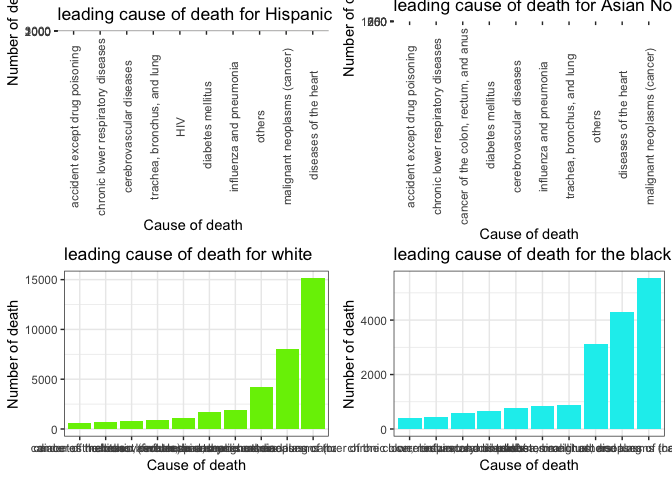
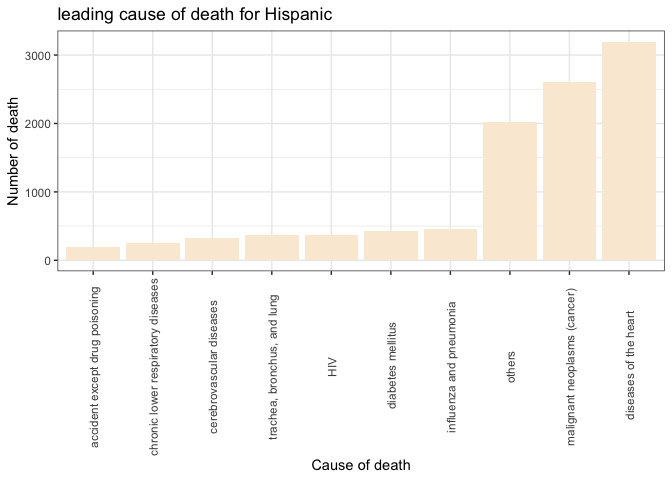
minor change

diff --git a/death_data_yx2510.md b/death_data_yx2510.md
@@ -212,6 +212,7 @@ total_death_data = replace_cd(total_death_data)
 gender_death_data2 = replace_cd(gender_death_data2)
 race_death_data2 = replace_cd(race_death_data2)
 age_death_data2 = replace_cd(age_death_data2)
+age_death_data3 = replace_cd(age_death_data3)
 ```
 
 3. data viasualization
@@ -440,9 +441,10 @@ lead_death3 = merge(lead_cause, total_death_data, by = c("year", "cause_of_death
   summarise(br_death_number = sum(number, na.rm = TRUE), br_population = sum(population)) %>%
   mutate(br_rate = br_death_number/br_population)
   
-  
+yr00 =   
 lead_death3 %>% 
-filter(year == 2000) %>%
+
+  filter(year == 2000) %>%
   ggplot(aes(reorder(x = cause_of_death, br_rate), y = br_rate, fill = borough)) +
   geom_bar(stat = "identity") + 
   theme_bw() +
@@ -452,11 +454,8 @@ filter(year == 2000) %>%
          title = "leading cause of death in 2000") +
   coord_flip()  +
   viridis::scale_fill_viridis(discrete = TRUE) 
-```
 
-![](death_data_yx2510_files/figure-markdown_github/unnamed-chunk-9-1.png)
-
-``` r
+yr06 = 
 lead_death3 %>% 
 filter(year == 2006) %>%
   ggplot(aes(reorder(x = cause_of_death, br_rate), y = br_rate, fill = borough)) +
@@ -468,11 +467,8 @@ filter(year == 2006) %>%
          title = "leading cause of death in 2006") +
   coord_flip()  +
   viridis::scale_fill_viridis(discrete = TRUE) 
-```
 
-![](death_data_yx2510_files/figure-markdown_github/unnamed-chunk-9-2.png)
-
-``` r
+yr12 = 
 lead_death3 %>% 
 filter(year == 2012) %>%
   ggplot(aes(reorder(x = cause_of_death, br_rate), y = br_rate, fill = borough)) +
@@ -484,12 +480,9 @@ filter(year == 2012) %>%
          title = "leading cause of death in 2012") +
   coord_flip()  +
   viridis::scale_fill_viridis(discrete = TRUE) 
-```
 
-![](death_data_yx2510_files/figure-markdown_github/unnamed-chunk-9-3.png)
-
-``` r
-lead_death3 %>% 
+yr14=
+  lead_death3 %>% 
 filter(year == 2014) %>%
   ggplot(aes(reorder(x = cause_of_death, br_rate), y = br_rate, fill = borough)) +
   geom_bar(stat = "identity") + 
@@ -500,6 +493,26 @@ filter(year == 2014) %>%
          title = "leading cause of death in 2014") +
   coord_flip()  +
   viridis::scale_fill_viridis(discrete = TRUE) 
+
+yr00
+```
+
+![](death_data_yx2510_files/figure-markdown_github/unnamed-chunk-9-1.png)
+
+``` r
+yr06
+```
+
+![](death_data_yx2510_files/figure-markdown_github/unnamed-chunk-9-2.png)
+
+``` r
+yr12
+```
+
+![](death_data_yx2510_files/figure-markdown_github/unnamed-chunk-9-3.png)
+
+``` r
+yr14
 ```
 
 ![](death_data_yx2510_files/figure-markdown_github/unnamed-chunk-9-4.png)
@@ -622,6 +635,8 @@ race_death_data2 = race_death_data2 %>%
   )) 
 
 # identify the top leading cause in NYC
+
+
 race_death_cause  = race_death_data2%>%
   group_by(race, cause_of_death) %>%
   summarise(cs_death_race = sum(borough_race_death)/11)  %>% # average yearly death from 2004 to
@@ -629,7 +644,7 @@ race_death_cause  = race_death_data2%>%
   arrange(race, desc(cs_death_race)) 
 
 ## plot for hispanic
-hispanic = race_death_cause %>% 
+race_death_cause %>% 
   filter(race == "Hispanic") %>%
   ggplot(aes(x = reorder(cause_of_death, cs_death_race), y = cs_death_race)) +
   geom_bar(stat = "identity", fill = "antiquewhite") +
@@ -639,7 +654,11 @@ hispanic = race_death_cause %>%
          title = "leading cause of death for Hispanic") + 
 theme_bw() +
    theme(axis.text.x = element_text(angle=90, vjust=0.6))
+```
 
+![](death_data_yx2510_files/figure-markdown_github/unnamed-chunk-13-1.png)
+
+``` r
 # asian
 asian = race_death_cause %>% 
   filter(race == "Asian Non-Hispanic") %>%
@@ -650,7 +669,8 @@ theme_bw() +
    theme(axis.text.x = element_text(angle=90, vjust=0.6)) +
    labs(x = "Cause of death", 
          y = "Number of death", 
-         title = "leading cause of death for Asian Non-hispanic")
+         title = "leading cause of death for Asian Non-hispanic") +
+   theme(axis.text.x = element_text(angle=90, vjust=0.6))
   
   # white
 white = 
@@ -662,7 +682,8 @@ white =
    labs(x = "Cause of death", 
          y = "Number of death", 
          title = "leading cause of death for white")  +
-theme_bw() 
+theme_bw() +
+   theme(axis.text.x = element_text(angle=90, vjust=0.6))
 
 # black
 black = 
@@ -674,11 +695,11 @@ black =
    labs(x = "Cause of death", 
          y = "Number of death", 
          title = "leading cause of death for the black") +
-theme_bw()
-ggarrange(hispanic, asian, white, black, ncol=2, nrow=2, common.legend = TRUE, legend="bottom")
+theme_bw() +
+   theme(axis.text.x = element_text(angle=90, vjust=0.6))
 ```
 
-![](death_data_yx2510_files/figure-markdown_github/unnamed-chunk-13-1.png) \#\#\#\#\# by race and borough
+##### by race and borough
 
 ``` r
 race_death_cd = merge(race_death_data2, race_death_cause) %>%
@@ -793,7 +814,8 @@ over_65 = age_death_cause %>%
          y = "Number of death", 
          title = "leading cause of death for over 65 year old group ") + 
 theme_bw()+
-   theme(axis.text.x = element_text(angle=90, vjust=0.6))
+   theme(axis.text.x = element_text(angle=90, vjust=0.6)) +
+coord_flip()
 
 
 premature = age_death_cause %>%
@@ -804,7 +826,8 @@ premature = age_death_cause %>%
          y = "Number of death", 
          title = "leading cause of premature death ") + 
 theme_bw()+
-   theme(axis.text.x = element_text(angle=90, vjust=0.6))
+   theme(axis.text.x = element_text(angle=90, vjust=0.6)) +
+  coord_flip()
 
 ggarrange(over_65, premature, ncol=2, nrow=1, common.legend = TRUE, legend="bottom")
 ```
@@ -827,13 +850,9 @@ over_65_2 = age_death_data3 %>%
          title = "leading cause of death for over 65 year old group ") + 
 theme_bw() +
    theme(axis.text.x = element_text(angle=90, vjust=0.6)) +
-  viridis::scale_fill_viridis(discrete = TRUE) 
-over_65_2
-```
+  viridis::scale_fill_viridis(discrete = TRUE)  
 
-![](death_data_yx2510_files/figure-markdown_github/unnamed-chunk-17-1.png)
 
-``` r
 premature2 = age_death_data3 %>%
   filter(age_group == "Premature Death") %>%
   ggplot(aes(x = reorder(cause_of_death, br_death_age), y = br_death_age, fill = borough)) +
@@ -844,10 +863,12 @@ premature2 = age_death_data3 %>%
 theme_bw()+
    theme(axis.text.x = element_text(angle=90, vjust=0.6)) +
   viridis::scale_fill_viridis(discrete = TRUE) 
-premature2
+
+
+ggarrange(over_65_2, premature2, ncol=2, nrow=1, common.legend = TRUE, legend="bottom")
 ```
 
-![](death_data_yx2510_files/figure-markdown_github/unnamed-chunk-17-2.png)
+![](death_data_yx2510_files/figure-markdown_github/unnamed-chunk-17-1.png)
 
 #### change of death number by age group
 
